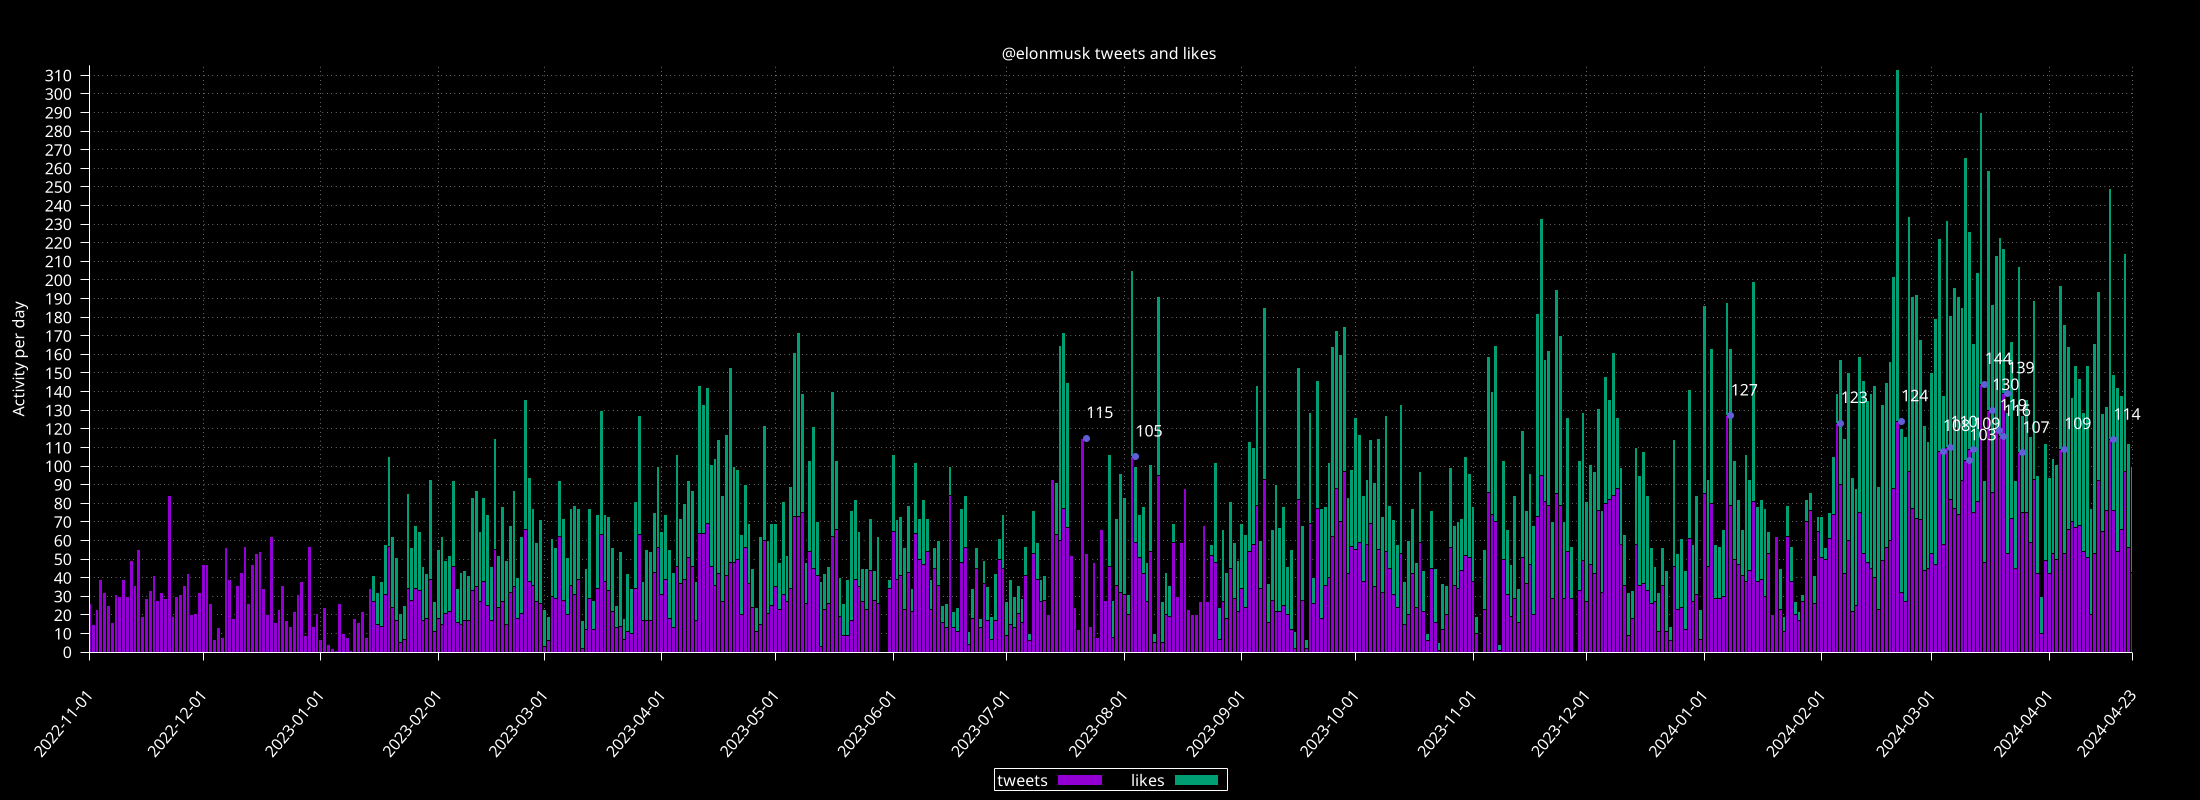
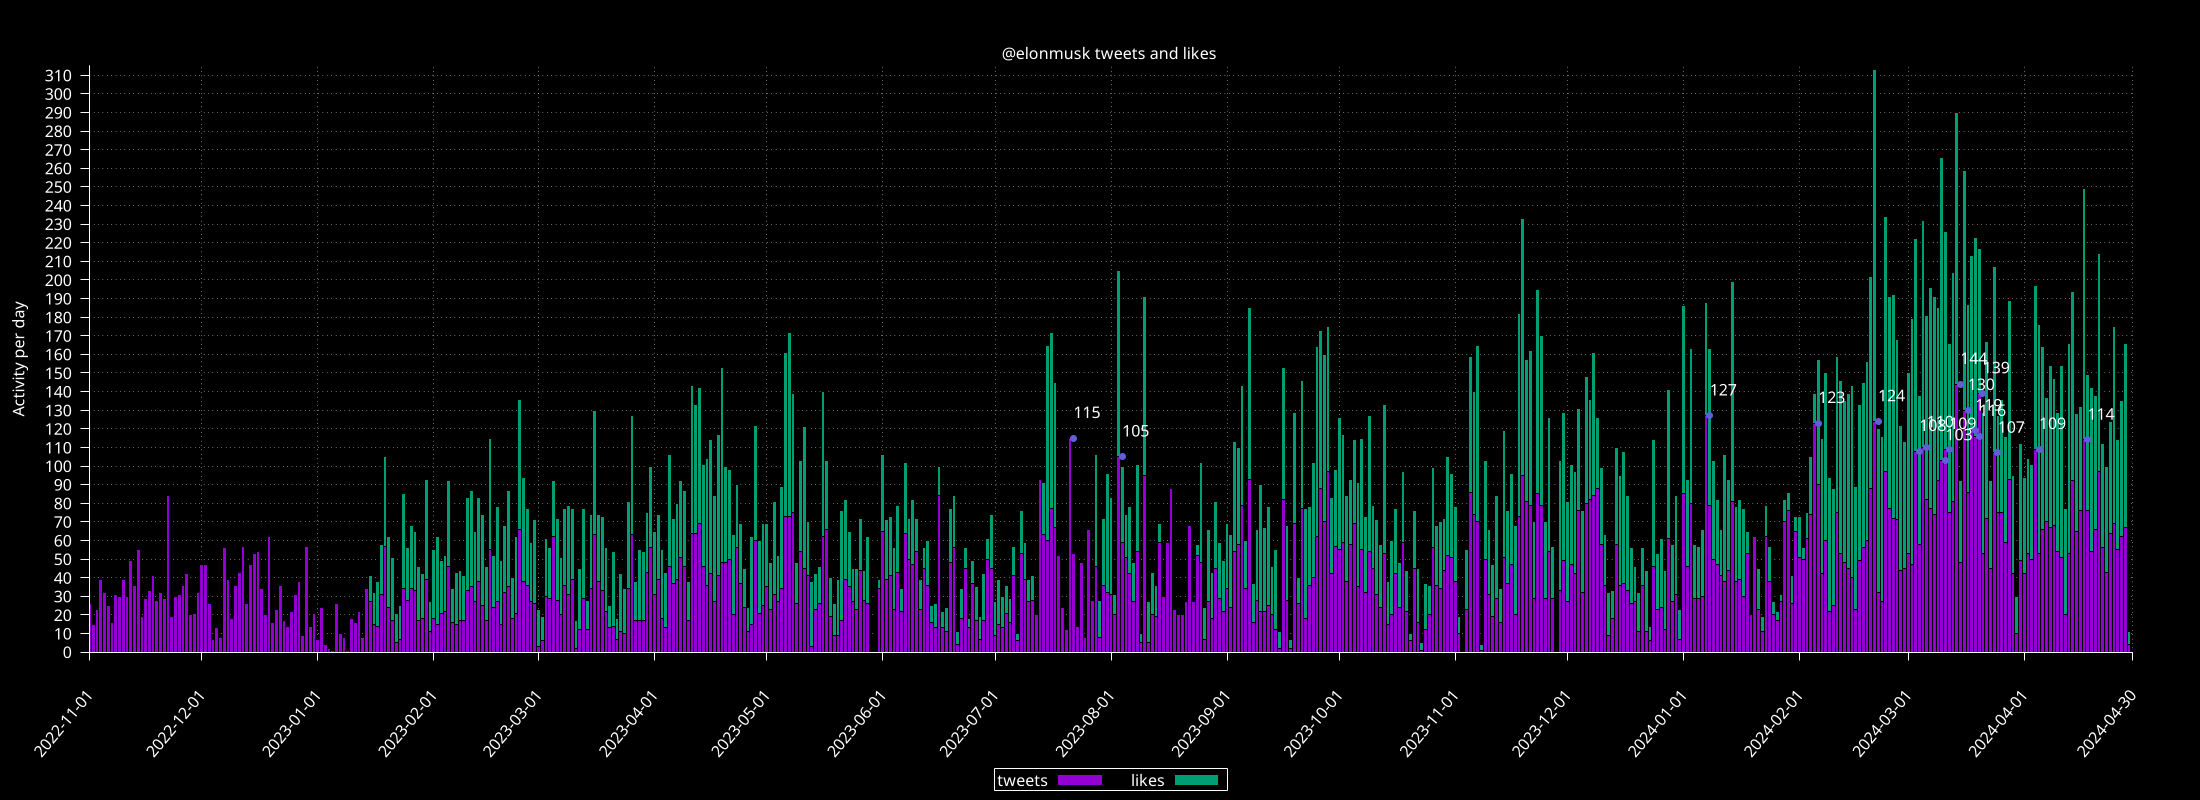
update

diff --git a/README.md b/README.md
@@ -10,3 +10,6 @@ Generate csv example:
 ./dates.sh | sed 's/ /,/g;1i date,tweets,likes' > out.csv
 ```
 ![elonmusk graph](/elonmusk.png)
+
+Todo:
+- use xdata time 
